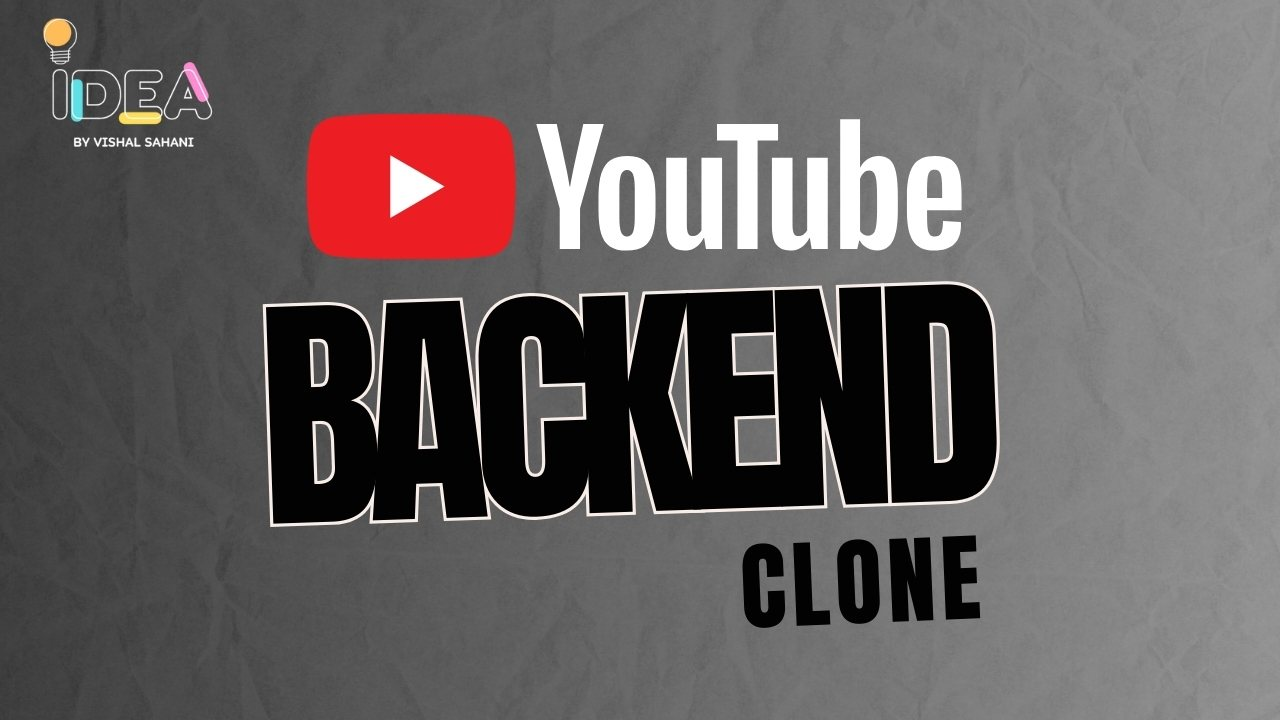
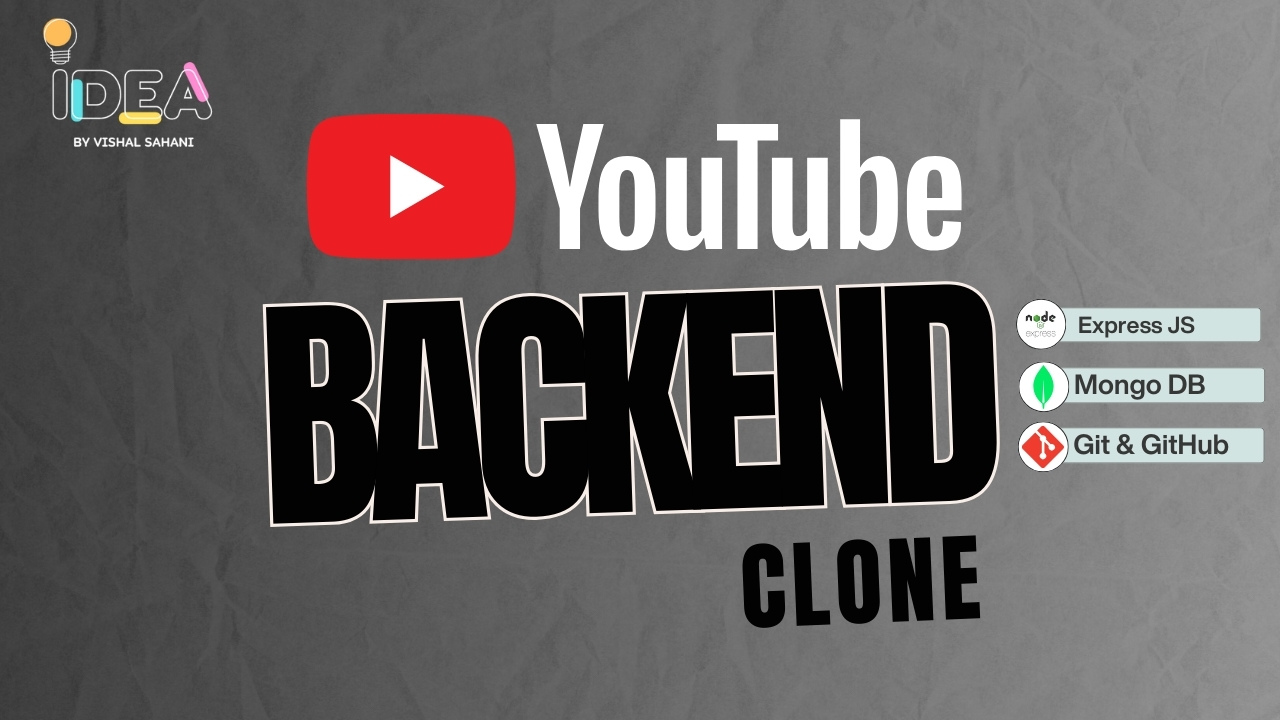
update project and skills section

Changed region(s): [[0.7812, 0.3972, 1.0, 0.6722]]

diff --git a/src/components/Skills.jsx b/src/components/Skills.jsx
@@ -8,6 +8,13 @@ import python from '../assets/skill/python.svg'
 import mongo from '../assets/skill/mongo.svg'
 import express from '../assets/skill/express.svg'
 import git from '../assets/skill/git.svg'
+import node from '../assets/skill/Node.svg'
+import github from '../assets/skill/github.svg'
+import npm from '../assets/skill/npm.svg'
+import nextjs from '../assets/skill/nextjs.svg'
+import postman from '../assets/skill/postman.svg'
+import ts from '../assets/skill/typescript.svg'
+import redux from '../assets/skill/redux.svg'
 import { tabs } from './Navbar'
 
 
@@ -25,12 +32,24 @@ import { tabs } from './Navbar'
       "logo": js
     },
     {
-      "name": "React",
+      "name": "React JS",
       "logo": Reactlogo
     },
     {
-      "name": "Express Js",
+      "name": "Next JS",
+      "logo": nextjs
+    },
+    {
+      "name": "Express JS",
       "logo": express
+    },
+    {
+      "name": "Node JS",
+      "logo": node
+    },
+    {
+      "name": "TypeScript",
+      "logo": ts
     },
     {
       "name": "Taiwind CSS",
@@ -41,12 +60,28 @@ import { tabs } from './Navbar'
       "logo": mongo
     },
     {
+      "name": "Git",
+      "logo": git
+    },
+    {
+      "name": "GitHub",
+      "logo": github
+    },
+    {
       "name": "Python",
       "logo": python
     },
     {
-      "name": "Git & GitHub",
-      "logo": git
+      "name": "Redux",
+      "logo": redux
+    },
+    {
+      "name": "NPM",
+      "logo": npm
+    },
+    {
+      "name": "Postman",
+      "logo": postman
     },
   ]
 

diff --git a/src/data.js b/src/data.js
@@ -1,8 +1,18 @@
 import youtubeImg from './assets/Project/YouTube.jpg'
 import WeatherImg from './assets/Project/weather.jpg'
 import Edtech from './assets/Project/EdTech.jpg'
+import feedbackImg from './assets/Project/Feedback.jpg'
 
 export const projects = [
+    {
+      "title": "Anonymous Messaging (True Feedback)",
+      "description": "A web application for collecting anonymous user feedback, and shareable links to ensure user privacy and data security.",
+      "technologies": ["Next Js", "Node js", "MongoDB"],
+      "img": feedbackImg,
+      "live":"https://true-feedback-byvishal.vercel.app/",
+      "code":"https://github.com/VishalMSahani/anonymous-review-app"
+      
+    },                        
     {
       "title": "YouTube-Backend Clone",
       "description": "A backend project inspired by YouTube, providing core user functionalities for managing videos, Like, Comment, Subscriber, and User Profile.",
